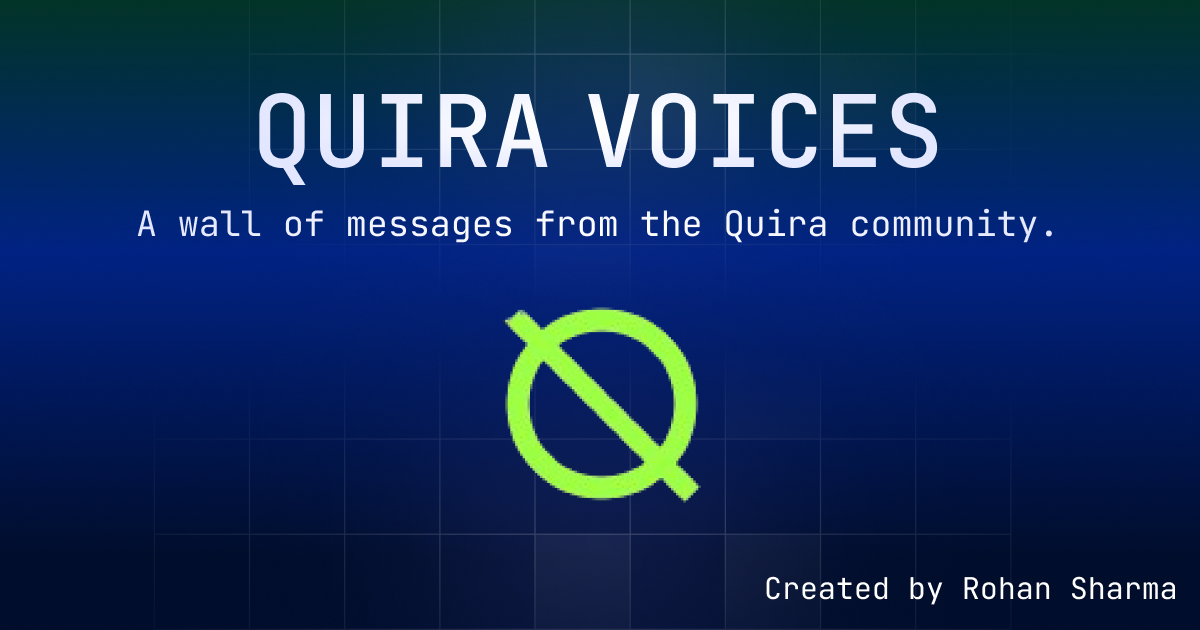
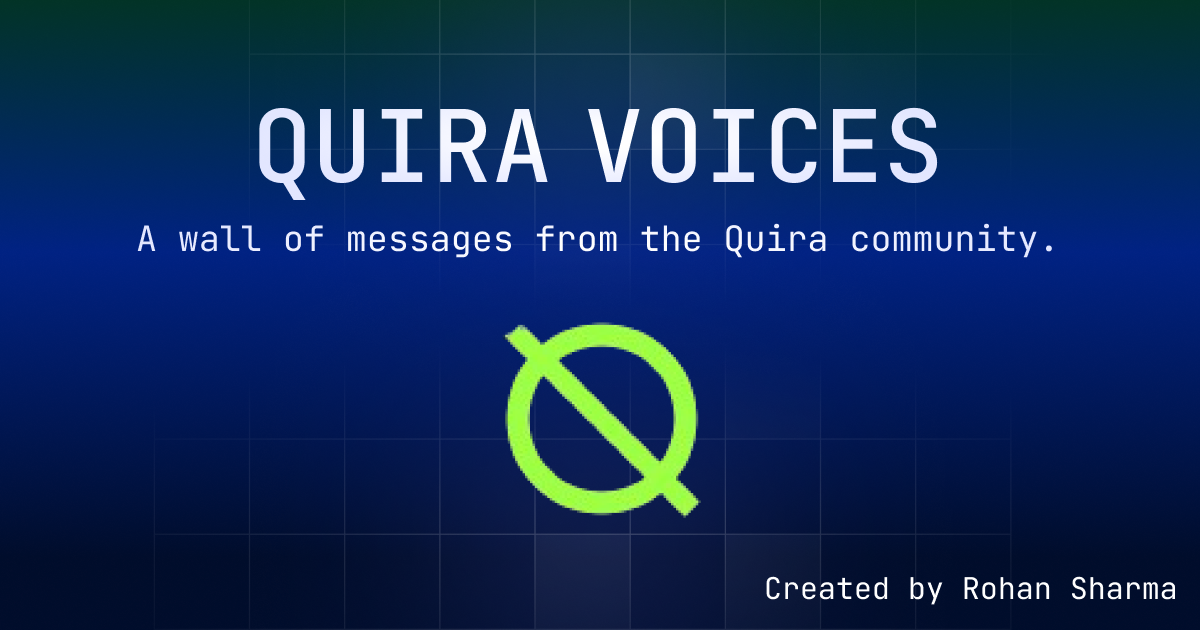
fix && feat: improved og-image && added analytics

diff --git a/app/page.tsx b/app/page.tsx
@@ -1,59 +1,62 @@
 import { Suspense } from "react"
 import { Twitter } from 'lucide-react'
 import TweetWall from "@/components/tweet-wall"
-
 import { JetBrains_Mono } from 'next/font/google'
+import { Analytics } from "@vercel/analytics/react"
 
 const jetBrains = JetBrains_Mono({
   subsets: ['latin'],
-  weight: ['300', '400'], 
+  weight: ['300', '400'],
   variable: '--font-jetbrains'
 })
 
 export default function Page() {
   return (
-    <main className="relative min-h-screen w-full overflow-hidden bg-[#070a1e] text-white">
-      {/* Background glow */}
-      <div aria-hidden="true" className="pointer-events-none absolute inset-0">
-        <div className="absolute -top-40 -left-40 h-[60vh] w-[60vh] rounded-full bg-[#26ff6a] opacity-[0.08] blur-[120px]" />
-        <div className="absolute -bottom-40 -right-40 h-[60vh] w-[60vh] rounded-full bg-[#2dd4bf] opacity-[0.06] blur-[120px]" />
-        <div className="absolute inset-0 bg-[radial-gradient(80%_60%_at_50%_-10%,rgba(52,64,255,0.15),rgba(7,10,30,0))]" />
-      </div>
+    <>
+      <main className="relative min-h-screen w-full overflow-hidden bg-[#070a1e] text-white">
+        {/* Background glow */}
+        <div aria-hidden="true" className="pointer-events-none absolute inset-0">
+          <div className="absolute -top-40 -left-40 h-[60vh] w-[60vh] rounded-full bg-[#26ff6a] opacity-[0.08] blur-[120px]" />
+          <div className="absolute -bottom-40 -right-40 h-[60vh] w-[60vh] rounded-full bg-[#2dd4bf] opacity-[0.06] blur-[120px]" />
+          <div className="absolute inset-0 bg-[radial-gradient(80%_60%_at_50%_-10%,rgba(52,64,255,0.15),rgba(7,10,30,0))]" />
+        </div>
 
-      <section className="relative z-10 mx-auto w-full max-w-6xl px-4 py-10 md:py-16">
-        <header className="mb-8 md:mb-12">
-          {/* Title row with View on X on the right */}
-          <div className="flex items-start justify-between gap-4">
-            <h1 className="inline-flex items-end gap-2 text-2xl font-semibold tracking-tight md:text-3xl leading-none">
-              <img
-                src="https://quira.sh/images/quira-logo-white.svg"
-                alt="Quira"
-                className="h-7 w-auto md:h-8 align-bottom"
-              />
-              <span className={`${jetBrains.className} pl-2 relative top-[1px]`}>Voices</span>
-            </h1>
+        <section className="relative z-10 mx-auto w-full max-w-6xl px-4 py-10 md:py-16">
+          <header className="mb-8 md:mb-12">
+            {/* Title row with View on X on the right */}
+            <div className="flex items-start justify-between gap-4">
+              <h1 className="inline-flex items-end gap-2 text-2xl font-semibold tracking-tight md:text-3xl leading-none">
+                <img
+                  src="https://quira.sh/images/quira-logo-white.svg"
+                  alt="Quira"
+                  className="h-7 w-auto md:h-8 align-bottom"
+                />
+                <span className={`${jetBrains.className} pl-2 relative top-[1px]`}>Voices</span>
+              </h1>
 
-            <a
-              href="https://x.com/quira_sh"
-              target="_blank"
-              rel="noreferrer"
-              className="inline-flex items-center gap-2 rounded-full bg-white/5 px-4 py-2 text-sm text-white ring-1 ring-white/15 transition hover:bg-white/10"
-            >
-              <Twitter className="h-4 w-4" />
-              View on X
-            </a>
-          </div>
+              <a
+                href="https://x.com/quira_sh"
+                target="_blank"
+                rel="noreferrer"
+                className="inline-flex items-center gap-2 rounded-full bg-white/5 px-4 py-2 text-sm text-white ring-1 ring-white/15 transition hover:bg-white/10"
+              >
+                <Twitter className="h-4 w-4" />
+                View on X
+              </a>
+            </div>
 
-          {/* Proper spacing between title and slogan */}
-          <p className="mt-3 text-sm text-white/70 md:mt-4">
-            A wall of messages from the Quira community.
-          </p>
-        </header>
+            {/* Proper spacing between title and slogan */}
+            <p className="mt-3 text-sm text-white/70 md:mt-4">
+              A wall of messages from the Quira community.
+            </p>
+          </header>
 
-        <Suspense fallback={<div className="text-white/70">Loading messages…</div>}>
-          <TweetWall />
-        </Suspense>
-      </section>
-    </main>
+          <Suspense fallback={<div className="text-white/70">Loading messages…</div>}>
+            <TweetWall />
+          </Suspense>
+        </section>
+      </main>
+      <Analytics />
+    </>
   )
 }
